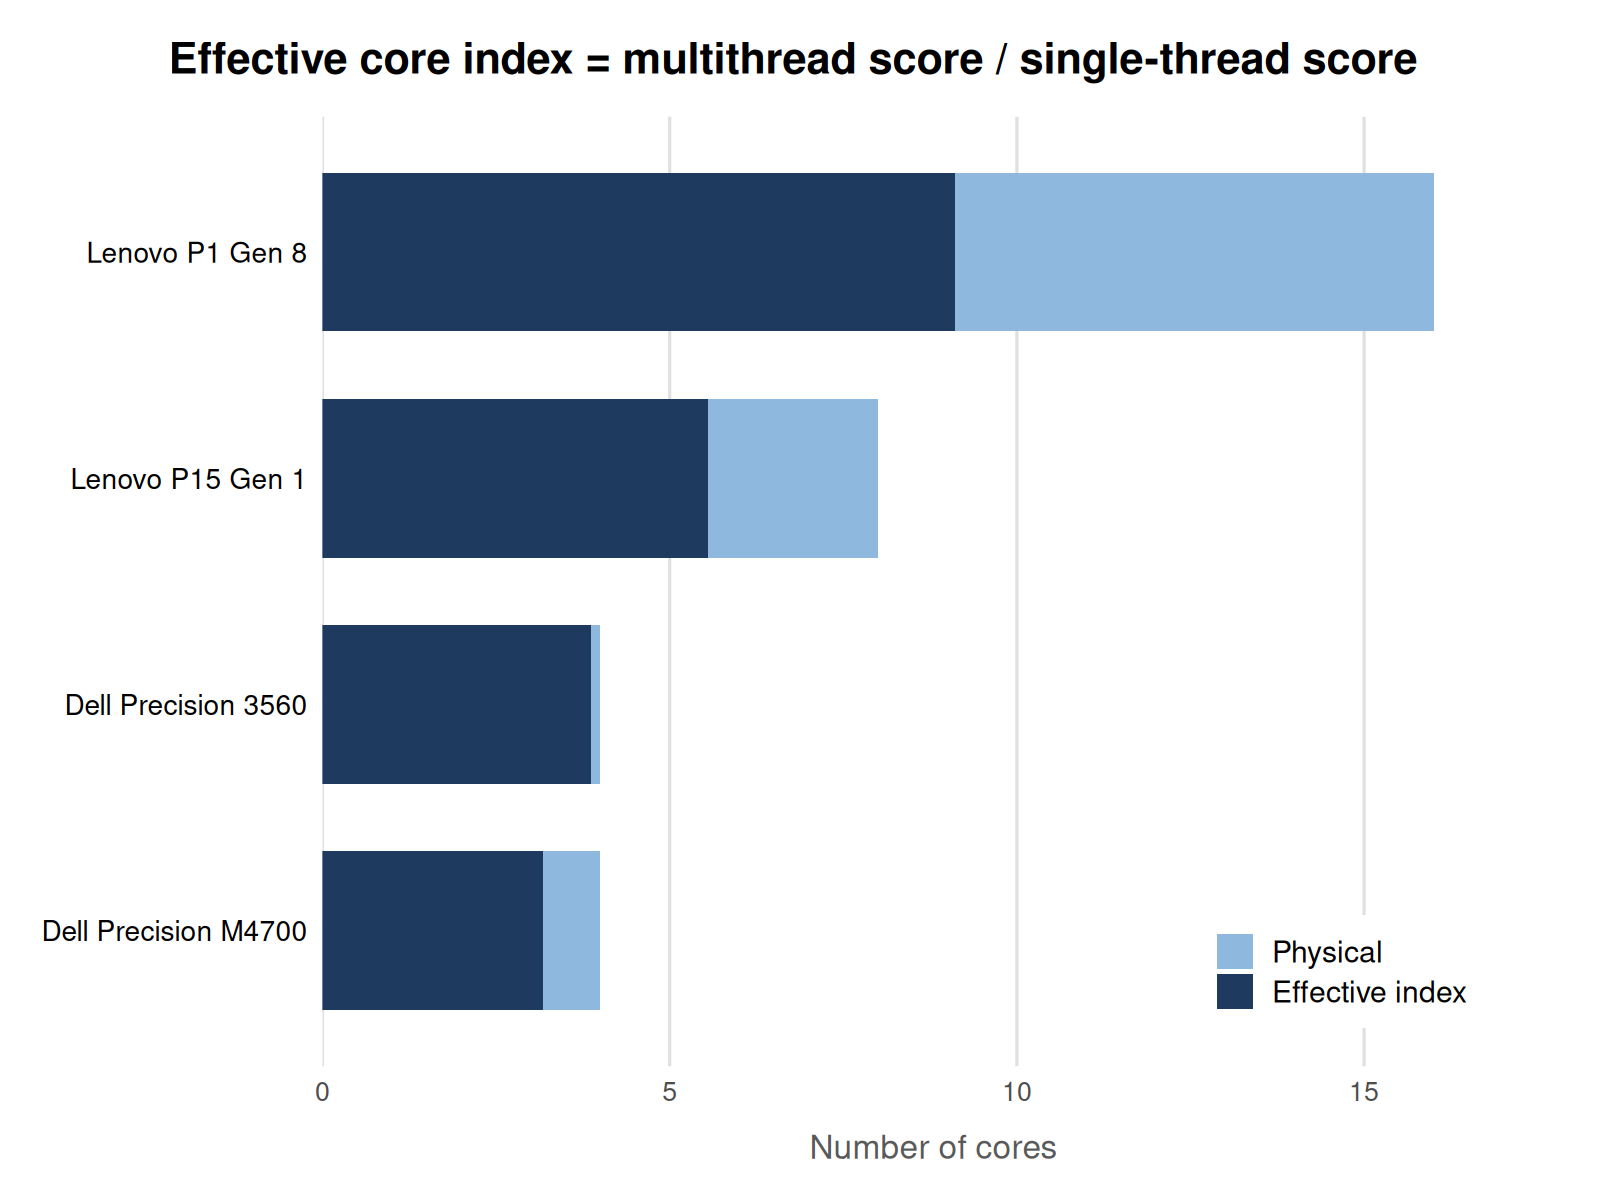
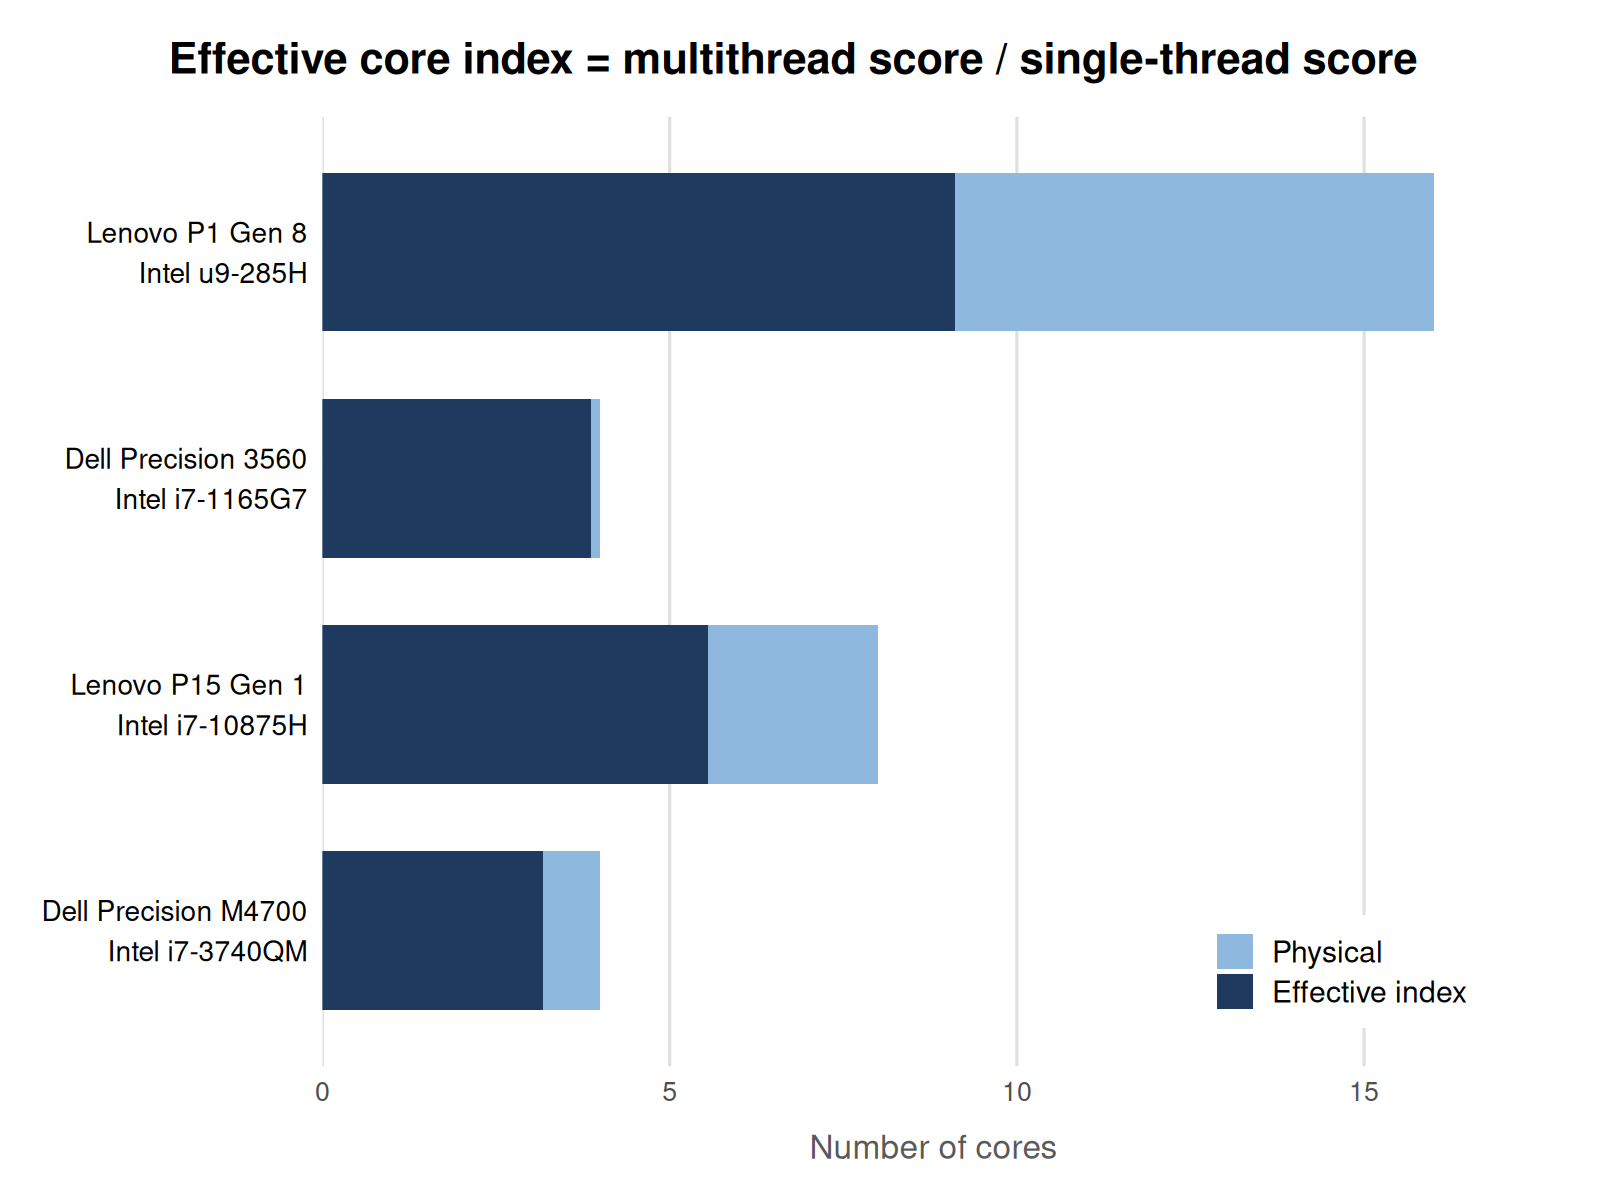
Tweak ggplots

diff --git a/AGENTS.md b/AGENTS.md
@@ -28,4 +28,4 @@ workflows in TAF format.
    the overall change is only one or two lines.
 
 7. The processor order should always be the chronological order: 3740, 10875,
-   1165, 285.
+   1165, 285. Newest processor at the top, oldest processor on the bottom.
